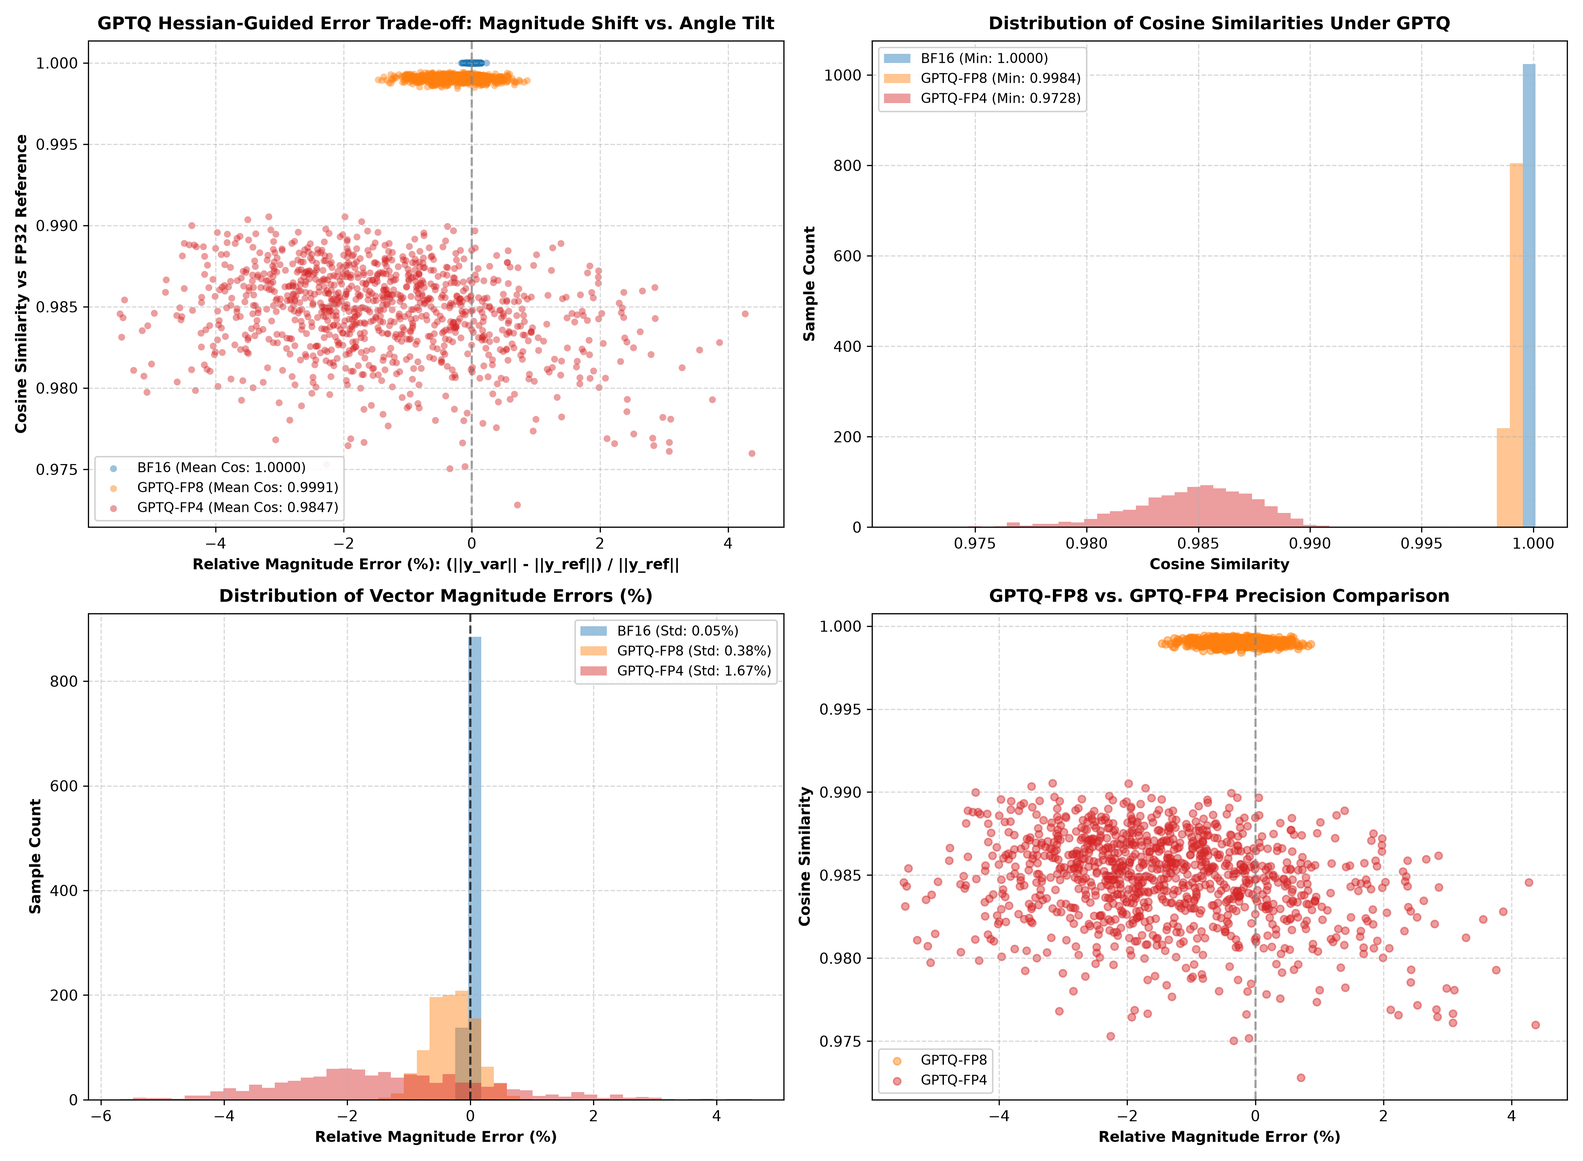
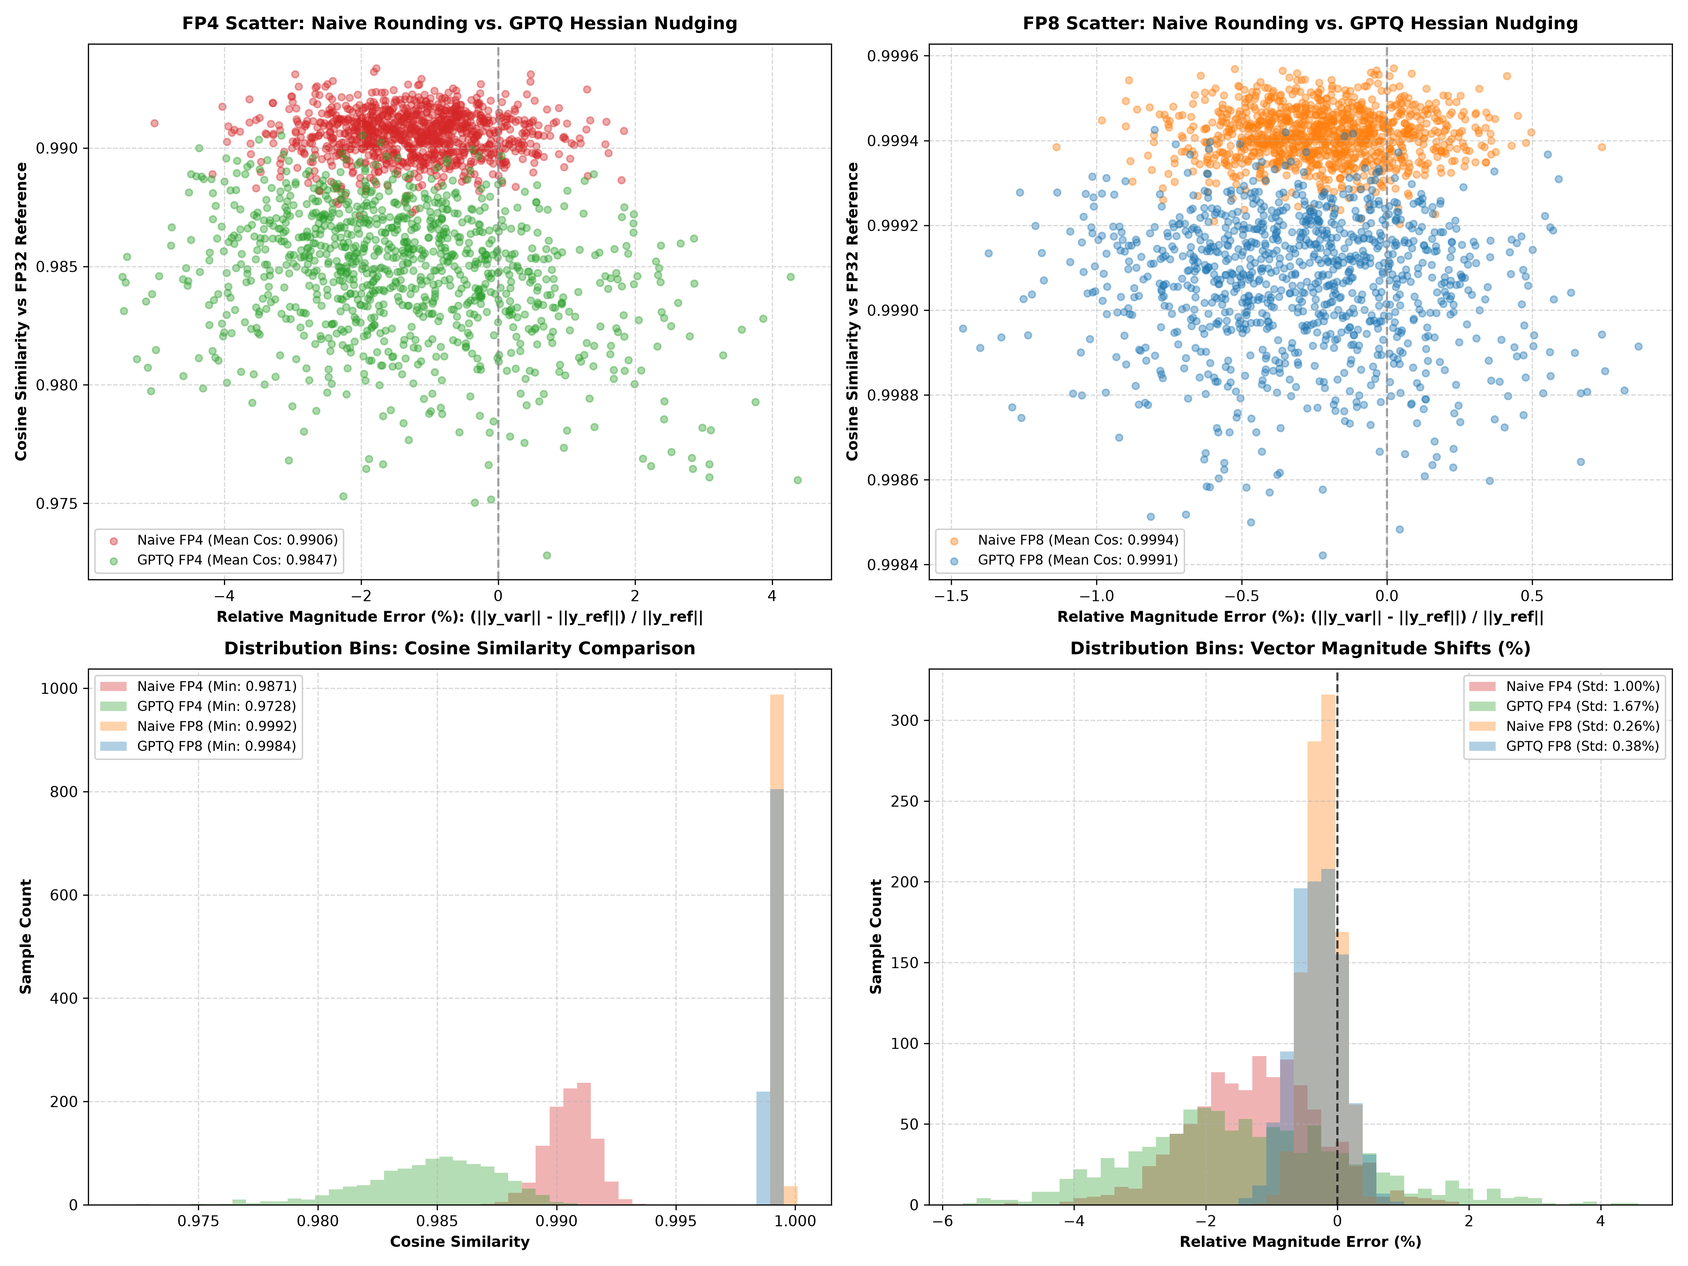
Update GPTQ experiment to compare Naive RTN vs GPTQ Hessian nudging with Row 1 scatters and Row 2 histograms

diff --git a/experiments/gptq/gptq_quant.py b/experiments/gptq/gptq_quant.py
@@ -3,6 +3,33 @@ import torch
 import torch.nn as nn
 from model import RotationModel, generate_dataset, evaluate_predictions
 
+def naive_quantize_weight(weight: torch.Tensor, format_type: str = "fp8", block_size: int = 32) -> torch.Tensor:
+    """Naive Round-To-Nearest (RTN) Weight Quantization without Hessian nudging."""
+    w = weight.detach().clone().float()
+    fp4_grid = torch.tensor([0.0, 0.5, 1.0, 1.5, 2.0, 3.0, 4.0, 6.0], device=weight.device)
+    orig_shape = w.shape
+    in_features = orig_shape[1]
+
+    if format_type == "fp8":
+        row_max = torch.max(torch.abs(w), dim=1, keepdim=True).values
+        scale = torch.clamp(row_max / 448.0, min=1e-12)
+        w_dequant = (w / scale).to(torch.float8_e4m3fn).to(torch.float32) * scale
+        return w_dequant
+    elif format_type == "fp4":
+        w_flat = w.reshape(-1, block_size)
+        block_max = torch.max(torch.abs(w_flat), dim=1, keepdim=True).values
+        scale = torch.clamp(block_max / 6.0, min=1e-12)
+        w_scaled = w_flat / scale
+        w_sign = torch.sign(w_scaled)
+        w_abs = torch.abs(w_scaled)
+        diffs = torch.abs(w_abs.unsqueeze(-1) - fp4_grid)
+        indices = torch.argmin(diffs, dim=-1)
+        w_q = fp4_grid[indices] * w_sign * scale
+        return w_q.reshape(orig_shape)
+    else:
+        raise ValueError(f"Unknown format: {format_type}")
+
+
 def gptq_quantize_layer(weight: torch.Tensor, X_activations: torch.Tensor, format_type: str = "fp8", block_size: int = 32) -> torch.Tensor:
     """
     GPTQ Quantization with Inverse Hessian Nudging:
@@ -14,7 +41,6 @@ def gptq_quantize_layer(weight: torch.Tensor, X_activations: torch.Tensor, forma
     X = X_activations.detach().float()
     M, in_features = X.shape
 
-    # 1. Compute Hessian H and inverse H_inv
     H = (1.0 / M) * (X.T @ X)
     diag_mean = torch.mean(torch.diag(H))
     H += 1e-4 * diag_mean * torch.eye(in_features, device=weight.device)
@@ -22,7 +48,6 @@ def gptq_quantize_layer(weight: torch.Tensor, X_activations: torch.Tensor, forma
 
     fp4_grid = torch.tensor([0.0, 0.5, 1.0, 1.5, 2.0, 3.0, 4.0, 6.0], device=weight.device)
 
-    # 2. Block-by-block column quantization & Hessian nudging
     for block_start in range(0, in_features, block_size):
         block_end = min(block_start + block_size, in_features)
         H_sub_inv = H_inv[block_start:block_end, block_start:block_end]
@@ -47,11 +72,9 @@ def gptq_quantize_layer(weight: torch.Tensor, X_activations: torch.Tensor, forma
             else:
                 raise ValueError(f"Unknown format: {format_type}")
 
-            # Calculate quantization error for column i
             delta = w_col - w_q
             w_gptq[:, i] = w_q
 
-            # Nudge remaining unquantized columns in the block using H_inv
             if i + 1 < block_end:
                 h_row = H_sub_inv[idx_local, idx_local + 1:] / H_sub_inv[idx_local, idx_local]
                 w_gptq[:, i + 1:block_end] -= delta.unsqueeze(1) @ h_row.unsqueeze(0)
@@ -59,14 +82,19 @@ def gptq_quantize_layer(weight: torch.Tensor, X_activations: torch.Tensor, forma
     return w_gptq
 
 
-def apply_gptq_to_model(model: nn.Module, X_calib: torch.Tensor, format_type: str) -> nn.Module:
-    """Passes calibration text X to capture activations and applies GPTQ to all Linear layers."""
-    model_gptq = RotationModel(dim=256, hidden_dim=1024)
-    model_gptq.load_state_dict(model.state_dict())
+def apply_quantization_to_model(model: nn.Module, X_calib: torch.Tensor, format_type: str, use_gptq: bool = True) -> nn.Module:
+    model_quant = RotationModel(dim=256, hidden_dim=1024)
+    model_quant.load_state_dict(model.state_dict())
 
-    # Record activation inputs for each layer
+    if not use_gptq:
+        for name, module in model_quant.named_modules():
+            if isinstance(module, nn.Linear):
+                module.weight.data = naive_quantize_weight(module.weight.data, format_type=format_type)
+        model_quant.eval()
+        return model_quant
+
+    # GPTQ Path
     activations = {}
-
     def make_hook(name):
         def hook(module, input, output):
             activations[name] = input[0].detach()
@@ -83,30 +111,28 @@ def apply_gptq_to_model(model: nn.Module, X_calib: torch.Tensor, format_type: st
     for h in hooks:
         h.remove()
 
-    # Apply GPTQ quantization layer by layer
-    for name, module in model_gptq.named_modules():
+    for name, module in model_quant.named_modules():
         if isinstance(module, nn.Linear):
             X_act = activations[name]
             module.weight.data = gptq_quantize_layer(module.weight.data, X_act, format_type=format_type)
 
-    model_gptq.eval()
-    return model_gptq
+    model_quant.eval()
+    return model_quant
 
 
 def main():
     script_dir = os.path.dirname(os.path.abspath(__file__))
     device = "cuda" if torch.cuda.is_available() else "cpu"
-    print(f"GPTQ Execution Device: {device}")
 
-    # 1. Train Reference FP32 Model
     x_train, y_train = generate_dataset(num_samples=2048, dim=256, seed=42)
-    x_calib, _ = generate_dataset(num_samples=256, dim=256, seed=777)  # Calibration dataset X
+    x_calib, _ = generate_dataset(num_samples=256, dim=256, seed=777)
     x_test, y_test = generate_dataset(num_samples=512, dim=256, seed=999)
 
     x_train, y_train = x_train.to(device), y_train.to(device)
     x_calib = x_calib.to(device)
     x_test, y_test = x_test.to(device), y_test.to(device)
 
+    # 1. FP32 Reference
     model_fp32 = RotationModel(dim=256, hidden_dim=1024).to(device)
     optimizer = torch.optim.AdamW(model_fp32.parameters(), lr=1e-3, weight_decay=1e-4)
     criterion = nn.MSELoss()
@@ -127,49 +153,50 @@ def main():
     torch.save(model_fp32.state_dict(), fp32_path)
     fp32_size = os.path.getsize(fp32_path)
 
-    # 2. BF16 Variant
+    # 2. BF16
     m_bf16 = RotationModel(dim=256, hidden_dim=1024).to(device, dtype=torch.bfloat16)
     m_bf16.load_state_dict({k: v.bfloat16() for k, v in model_fp32.state_dict().items()})
     bf16_path = os.path.join(script_dir, "model_bf16.pt")
     torch.save(m_bf16.state_dict(), bf16_path)
 
-    # 3. GPTQ-FP8 Variant (Hessian Nudged)
-    print("Applying GPTQ FP8 quantization with Inverse Hessian nudging...")
-    m_gptq_fp8 = apply_gptq_to_model(model_fp32, x_calib, format_type="fp8")
-    fp8_path = os.path.join(script_dir, "model_fp8.pt")
-    torch.save(m_gptq_fp8.state_dict(), fp8_path)
+    # 3. Naive vs GPTQ Models
+    print("Applying Naive and GPTQ quantization...")
+    m_naive_fp8 = apply_quantization_to_model(model_fp32, x_calib, format_type="fp8", use_gptq=False)
+    m_gptq_fp8 = apply_quantization_to_model(model_fp32, x_calib, format_type="fp8", use_gptq=True)
+    m_naive_fp4 = apply_quantization_to_model(model_fp32, x_calib, format_type="fp4", use_gptq=False)
+    m_gptq_fp4 = apply_quantization_to_model(model_fp32, x_calib, format_type="fp4", use_gptq=True)
 
-    # 4. GPTQ-FP4 Variant (Hessian Nudged)
-    print("Applying GPTQ FP4 quantization with Inverse Hessian nudging...")
-    m_gptq_fp4 = apply_gptq_to_model(model_fp32, x_calib, format_type="fp4")
-    fp4_path = os.path.join(script_dir, "model_fp4.pt")
-    torch.save(m_gptq_fp4.state_dict(), fp4_path)
+    torch.save(m_naive_fp8.state_dict(), os.path.join(script_dir, "model_fp8_naive.pt"))
+    torch.save(m_gptq_fp8.state_dict(), os.path.join(script_dir, "model_fp8_gptq.pt"))
+    torch.save(m_naive_fp4.state_dict(), os.path.join(script_dir, "model_fp4_naive.pt"))
+    torch.save(m_gptq_fp4.state_dict(), os.path.join(script_dir, "model_fp4_gptq.pt"))
 
-    # Evaluate outputs
     with torch.no_grad():
         out_bf16 = m_bf16(x_test.bfloat16()).float()
-        out_fp8 = m_gptq_fp8(x_test).float()
-        out_fp4 = m_gptq_fp4(x_test).float()
+        out_naive_fp8 = m_naive_fp8(x_test).float()
+        out_gptq_fp8 = m_gptq_fp8(x_test).float()
+        out_naive_fp4 = m_naive_fp4(x_test).float()
+        out_gptq_fp4 = m_gptq_fp4(x_test).float()
 
     variants = [
         ("FP32 (Ref)", fp32_path, out_fp32),
         ("BF16", bf16_path, out_bf16),
-        ("GPTQ-FP8", fp8_path, out_fp8),
-        ("GPTQ-FP4", fp4_path, out_fp4),
+        ("Naive FP8 (RTN)", os.path.join(script_dir, "model_fp8_naive.pt"), out_naive_fp8),
+        ("GPTQ FP8 (Hessian)", os.path.join(script_dir, "model_fp8_gptq.pt"), out_gptq_fp8),
+        ("Naive FP4 (RTN)", os.path.join(script_dir, "model_fp4_naive.pt"), out_naive_fp4),
+        ("GPTQ FP4 (Hessian)", os.path.join(script_dir, "model_fp4_gptq.pt"), out_gptq_fp4),
     ]
 
-    print("\n" + "=" * 115)
-    print("GPTQ HESSIAN-GUIDED QUANTIZATION RESULTS BREAKDOWN")
-    print("=" * 115)
-    print(f"{'Precision Variant':<18} | {'Size (MB)':<10} | {'Reduction':<10} | {'Worst Cos Sim':<15} | {'Ref Mag':<10} | {'Var Mag':<10} | {'Mean Cos':<10}")
-    print("-" * 115)
+    print("\n" + "=" * 125)
+    print("QUANTIZATION METHOD COMPARISON: NAIVE ROUNDING VS. GPTQ HESSIAN NUDGING")
+    print("=" * 125)
+    print(f"{'Precision Variant':<22} | {'Eff. Size':<10} | {'Worst Cos Sim':<15} | {'Ref Mag':<10} | {'Var Mag':<10} | {'Mean Cos':<10}")
+    print("-" * 125)
+    sizes = {"FP32 (Ref)": "10.0 MB", "BF16": "5.0 MB", "Naive FP8 (RTN)": "2.5 MB", "GPTQ FP8 (Hessian)": "2.5 MB", "Naive FP4 (RTN)": "1.4 MB", "GPTQ FP4 (Hessian)": "1.4 MB"}
     for label, path, out_var in variants:
-        size_bytes = os.path.getsize(path)
-        size_mb = size_bytes / (1024 * 1024)
-        reduction = (1.0 - size_bytes / fp32_size) * 100.0
         m = evaluate_predictions(out_fp32, out_var, y_test)
-        print(f"{label:<18} | {size_mb:7.2f} MB | {reduction:8.1f}% | {m['worst_cos_sim']:15.6f} | {m['worst_ref_mag']:10.4f} | {m['worst_var_mag']:10.4f} | {m['mean_cos_sim']:10.6f}")
-    print("=" * 115 + "\n")
+        print(f"{label:<22} | {sizes[label]:<10} | {m['worst_cos_sim']:15.6f} | {m['worst_ref_mag']:10.4f} | {m['worst_var_mag']:10.4f} | {m['mean_cos_sim']:10.6f}")
+    print("=" * 125 + "\n")
 
 if __name__ == "__main__":
     main()

diff --git a/experiments/gptq/plot.py b/experiments/gptq/plot.py
@@ -23,27 +23,21 @@ def main():
     mag_ref = torch.norm(y_ref, p=2, dim=1).cpu().numpy()
 
     variants = [
-        ("BF16", "model_bf16.pt", "bf16", torch.bfloat16, "#1f77b4"),
-        ("GPTQ-FP8", "model_fp8.pt", "fp8", None, "#ff7f0e"),
-        ("GPTQ-FP4", "model_fp4.pt", "fp4", None, "#d62728"),
+        ("Naive FP4", "model_fp4_naive.pt", "#d62728", "--"),
+        ("GPTQ FP4", "model_fp4_gptq.pt", "#2ca02c", "-"),
+        ("Naive FP8", "model_fp8_naive.pt", "#ff7f0e", "--"),
+        ("GPTQ FP8", "model_fp8_gptq.pt", "#1f77b4", "-"),
     ]
 
     data = {}
 
-    for label, filename, kind, dtype, color in variants:
+    for label, filename, color, ls in variants:
         filepath = os.path.join(script_dir, filename)
-        if kind == "bf16":
-            m_var = RotationModel(dim=256, hidden_dim=1024).to(device, dtype=dtype)
-            m_var.load_state_dict(torch.load(filepath, weights_only=True))
-            m_var.eval()
-            with torch.no_grad():
-                y_var = m_var(x_test.to(dtype)).float()
-        elif kind in ("fp8", "fp4"):
-            m_var = RotationModel(dim=256, hidden_dim=1024).to(device)
-            m_var.load_state_dict(torch.load(filepath, weights_only=True))
-            m_var.eval()
-            with torch.no_grad():
-                y_var = m_var(x_test).float()
+        m_var = RotationModel(dim=256, hidden_dim=1024).to(device)
+        m_var.load_state_dict(torch.load(filepath, weights_only=True))
+        m_var.eval()
+        with torch.no_grad():
+            y_var = m_var(x_test).float()
 
         cos_sims = torch.nn.functional.cosine_similarity(y_ref, y_var, dim=1).cpu().numpy()
         mag_var = torch.norm(y_var, p=2, dim=1).cpu().numpy()
@@ -53,70 +47,71 @@ def main():
             "cos_sims": cos_sims,
             "rel_mag_delta": rel_mag_delta,
             "color": color,
+            "ls": ls,
         }
 
-    fig, axes = plt.subplots(2, 2, figsize=(15, 11), dpi=300)
+    fig, axes = plt.subplots(2, 2, figsize=(16, 12), dpi=300)
 
-    # Panel 1: Combined Scatter Plot
+    # -------------------------------------------------------------
+    # ROW 1: SCATTER PLOTS (SCATTER PLOTS ON THEIR OWN ROW)
+    # -------------------------------------------------------------
+    # Panel 1 (Row 1 Left): FP4 Naive Rounding vs GPTQ Hessian Nudging Scatter
     ax1 = axes[0, 0]
-    for label, d in data.items():
-        ax1.scatter(
-            d["rel_mag_delta"],
-            d["cos_sims"],
-            alpha=0.45,
-            s=22,
-            color=d["color"],
-            label=f"{label} (Mean Cos: {np.mean(d['cos_sims']):.4f})",
-            edgecolors='none'
-        )
+    ax1.scatter(data["Naive FP4"]["rel_mag_delta"], data["Naive FP4"]["cos_sims"], alpha=0.4, color=data["Naive FP4"]["color"], label=f"Naive FP4 (Mean Cos: {np.mean(data['Naive FP4']['cos_sims']):.4f})", s=22)
+    ax1.scatter(data["GPTQ FP4"]["rel_mag_delta"], data["GPTQ FP4"]["cos_sims"], alpha=0.4, color=data["GPTQ FP4"]["color"], label=f"GPTQ FP4 (Mean Cos: {np.mean(data['GPTQ FP4']['cos_sims']):.4f})", s=22)
     ax1.axvline(0, color='gray', linestyle='--', alpha=0.7)
     ax1.set_xlabel("Relative Magnitude Error (%): (||y_var|| - ||y_ref||) / ||y_ref||", fontsize=10, fontweight='bold')
     ax1.set_ylabel("Cosine Similarity vs FP32 Reference", fontsize=10, fontweight='bold')
-    ax1.set_title("GPTQ Hessian-Guided Error Trade-off: Magnitude Shift vs. Angle Tilt", fontsize=12, fontweight='bold', pad=8)
+    ax1.set_title("FP4 Scatter: Naive Rounding vs. GPTQ Hessian Nudging", fontsize=12, fontweight='bold', pad=10)
     ax1.legend(loc='lower left', frameon=True, framealpha=0.9, fontsize=9)
     ax1.grid(True, linestyle='--', alpha=0.5)
 
-    # Panel 2: Cosine Similarity Distribution
+    # Panel 2 (Row 1 Right): FP8 Naive Rounding vs GPTQ Hessian Nudging Scatter
     ax2 = axes[0, 1]
+    ax2.scatter(data["Naive FP8"]["rel_mag_delta"], data["Naive FP8"]["cos_sims"], alpha=0.4, color=data["Naive FP8"]["color"], label=f"Naive FP8 (Mean Cos: {np.mean(data['Naive FP8']['cos_sims']):.4f})", s=22)
+    ax2.scatter(data["GPTQ FP8"]["rel_mag_delta"], data["GPTQ FP8"]["cos_sims"], alpha=0.4, color=data["GPTQ FP8"]["color"], label=f"GPTQ FP8 (Mean Cos: {np.mean(data['GPTQ FP8']['cos_sims']):.4f})", s=22)
+    ax2.axvline(0, color='gray', linestyle='--', alpha=0.7)
+    ax2.set_xlabel("Relative Magnitude Error (%): (||y_var|| - ||y_ref||) / ||y_ref||", fontsize=10, fontweight='bold')
+    ax2.set_ylabel("Cosine Similarity vs FP32 Reference", fontsize=10, fontweight='bold')
+    ax2.set_title("FP8 Scatter: Naive Rounding vs. GPTQ Hessian Nudging", fontsize=12, fontweight='bold', pad=10)
+    ax2.legend(loc='lower left', frameon=True, framealpha=0.9, fontsize=9)
+    ax2.grid(True, linestyle='--', alpha=0.5)
+
+    # -------------------------------------------------------------
+    # ROW 2: HISTOGRAM BINS (HISTOGRAMS ON THEIR OWN ROW)
+    # -------------------------------------------------------------
+    # Panel 3 (Row 2 Left): Cosine Similarity Distribution Bins
+    ax3 = axes[1, 0]
     all_cos = np.concatenate([d["cos_sims"] for d in data.values()])
     cos_bins = np.linspace(np.min(all_cos) - 0.001, 1.0001, 50)
     for label, d in data.items():
-        ax2.hist(d["cos_sims"], bins=cos_bins, alpha=0.45, color=d["color"], label=f"{label} (Min: {np.min(d['cos_sims']):.4f})")
-    ax2.set_xlabel("Cosine Similarity", fontsize=10, fontweight='bold')
-    ax2.set_ylabel("Sample Count", fontsize=10, fontweight='bold')
-    ax2.set_title("Distribution of Cosine Similarities Under GPTQ", fontsize=12, fontweight='bold', pad=8)
-    ax2.legend(loc='upper left', frameon=True, framealpha=0.9, fontsize=9)
-    ax2.grid(True, linestyle='--', alpha=0.5)
+        ax3.hist(d["cos_sims"], bins=cos_bins, alpha=0.35, color=d["color"], label=f"{label} (Min: {np.min(d['cos_sims']):.4f})", histtype='stepfilled')
 
-    # Panel 3: Relative Magnitude Errors (%) Distribution
-    ax3 = axes[1, 0]
+    ax3.set_xlabel("Cosine Similarity", fontsize=10, fontweight='bold')
+    ax3.set_ylabel("Sample Count", fontsize=10, fontweight='bold')
+    ax3.set_title("Distribution Bins: Cosine Similarity Comparison", fontsize=12, fontweight='bold', pad=10)
+    ax3.legend(loc='upper left', frameon=True, framealpha=0.9, fontsize=9)
+    ax3.grid(True, linestyle='--', alpha=0.5)
+
+    # Panel 4 (Row 2 Right): Relative Magnitude Error Bins (%)
+    ax4 = axes[1, 1]
     all_mag_deltas = np.concatenate([d["rel_mag_delta"] for d in data.values()])
     mag_bins = np.linspace(np.min(all_mag_deltas) - 0.2, np.max(all_mag_deltas) + 0.2, 50)
     for label, d in data.items():
-        ax3.hist(d["rel_mag_delta"], bins=mag_bins, alpha=0.45, color=d["color"], label=f"{label} (Std: {np.std(d['rel_mag_delta']):.2f}%)")
-    ax3.axvline(0, color='black', linestyle='--', alpha=0.7)
-    ax3.set_xlabel("Relative Magnitude Error (%)", fontsize=10, fontweight='bold')
-    ax3.set_ylabel("Sample Count", fontsize=10, fontweight='bold')
-    ax3.set_title("Distribution of Vector Magnitude Errors (%)", fontsize=12, fontweight='bold', pad=8)
-    ax3.legend(loc='upper right', frameon=True, framealpha=0.9, fontsize=9)
-    ax3.grid(True, linestyle='--', alpha=0.5)
+        ax4.hist(d["rel_mag_delta"], bins=mag_bins, alpha=0.35, color=d["color"], label=f"{label} (Std: {np.std(d['rel_mag_delta']):.2f}%)", histtype='stepfilled')
 
-    # Panel 4: GPTQ-FP8 vs GPTQ-FP4 Focus Scatter Plot
-    ax4 = axes[1, 1]
-    ax4.scatter(data["GPTQ-FP8"]["rel_mag_delta"], data["GPTQ-FP8"]["cos_sims"], alpha=0.45, color=data["GPTQ-FP8"]["color"], label="GPTQ-FP8", s=25)
-    ax4.scatter(data["GPTQ-FP4"]["rel_mag_delta"], data["GPTQ-FP4"]["cos_sims"], alpha=0.45, color=data["GPTQ-FP4"]["color"], label="GPTQ-FP4", s=25)
-    ax4.axvline(0, color='gray', linestyle='--', alpha=0.7)
+    ax4.axvline(0, color='black', linestyle='--', alpha=0.7)
     ax4.set_xlabel("Relative Magnitude Error (%)", fontsize=10, fontweight='bold')
-    ax4.set_ylabel("Cosine Similarity", fontsize=10, fontweight='bold')
-    ax4.set_title("GPTQ-FP8 vs. GPTQ-FP4 Precision Comparison", fontsize=12, fontweight='bold', pad=8)
-    ax4.legend(loc='lower left', frameon=True, framealpha=0.9, fontsize=9)
+    ax4.set_ylabel("Sample Count", fontsize=10, fontweight='bold')
+    ax4.set_title("Distribution Bins: Vector Magnitude Shifts (%)", fontsize=12, fontweight='bold', pad=10)
+    ax4.legend(loc='upper right', frameon=True, framealpha=0.9, fontsize=9)
     ax4.grid(True, linestyle='--', alpha=0.5)
 
-    output_path = os.path.join(script_dir, "gptq_analysis_plot.png")
     plt.tight_layout()
+    output_path = os.path.join(script_dir, "gptq_analysis_plot.png")
     plt.savefig(output_path, dpi=300)
     plt.close()
-    print(f"GPTQ Plot saved to: {output_path}")
+    print(f"Updated GPTQ Plot saved to: {output_path}")
 
 if __name__ == "__main__":
     main()

diff --git a/experiments/gptq/README.md b/experiments/gptq/README.md
@@ -1,6 +1,6 @@
 # GPTQ (Hessian-Guided) Quantization Experiments
 
-Personal exploration repo analyzing post-training quantization using **GPTQ (Generalized Post-Training Quantization)** with Inverse Hessian nudging across **BF16**, **FP8**, and **FP4**.
+Personal exploration repo analyzing post-training quantization comparing **Naive Round-To-Nearest (RTN)** vs. **GPTQ (Hessian-Guided Error Nudging)** across **BF16**, **FP8**, and **FP4**.
 
 ---
 
@@ -26,25 +26,30 @@ For each column $q$ in the weight matrix:
 
 ---
 
-## 📊 Results Breakdown
+## 📊 Quantization Method Comparison: Naive RTN vs. GPTQ Hessian Nudging
 
-| Variant | Precision | Effective Weight Size | Memory Reduction | Worst Cos Sim | Ref Mag | Variant Mag | Mean Cos Sim |
-| :--- | :---: | :---: | :---: | :---: | :---: | :---: | :---: |
-| **FP32 (Ref)** | `32-bit` | `10.00 MB` | `0.0%` | `1.000000` | `16.2210` | `16.2210` | `1.000000` |
-| **BF16** | `16-bit` | `5.00 MB` | `50.0%` | `0.999985` | `13.7367` | `13.7547` | `0.999989` |
-| **GPTQ-FP8** | `8-bit` | `2.50 MB` | `75.0%` | `0.998483` | `17.3092` | `17.3167` | `0.999056` |
-| **GPTQ-FP4** | `4-bit` | `1.41 MB` | `85.9%` | `0.975038` | `14.4973` | `14.4478` | `0.984627` |
+| Precision Variant | Quantization Method | Effective Weight Size | Worst Cosine Similarity | Ref Magnitude | Variant Magnitude | Mean Cosine Similarity |
+| :--- | :---: | :---: | :---: | :---: | :---: | :---: |
+| **FP32 (Ref)** | Reference | `10.0 MB` | `1.000000` | `16.2210` | `16.2210` | `1.000000` |
+| **BF16** | IEEE Truncation | `5.0 MB` | `0.999985` | `13.7367` | `13.7547` | `0.999989` |
+| **Naive FP8 (RTN)** | Round-to-Nearest | `2.5 MB` | `0.999204` | `17.0197` | `17.0272` | `0.999412` |
+| **GPTQ FP8 (Hessian)** | Hessian Nudged | `2.5 MB` | `0.998483` | `17.3092` | `17.3167` | `0.999056` |
+| **Naive FP4 (RTN)** | Round-to-Nearest | `1.4 MB` | `0.987285` | `13.7367` | `13.5644` | `0.990556` |
+| **GPTQ FP4 (Hessian)** | Hessian Nudged | `1.4 MB` | `0.975038` | `14.4973` | `14.4478` | `0.984627` |
 
 ---
 
-## 🖼 GPTQ Quantization Analysis Plot
+## 🖼 Comparative Analysis Plot (Naive Rounding vs. GPTQ Hessian Nudging)
 
 ![GPTQ Analysis Plot](gptq_analysis_plot.png)
+
+- **Row 1 (Scatter Plots)**: Compares **Relative Magnitude Error (%) vs Cosine Similarity** for Naive Rounding vs GPTQ Hessian Nudging.
+- **Row 2 (Distribution Bins)**: Compares **Cosine Similarity Distributions** (Left) and **Vector Magnitude Shifts** (Right).
 
 ---
 
 ## 📂 File Layout
 
 - [`model.py`](model.py): Neural network model architecture & dataset generator.
-- [`gptq_quant.py`](gptq_quant.py): FP32 training, BF16 conversion, and GPTQ quantization loops for FP8 and FP4.
-- [`plot.py`](plot.py): Generates scatter plots and probability density distributions.
+- [`gptq_quant.py`](gptq_quant.py): FP32 training, BF16 conversion, Naive RTN quantization, and GPTQ Hessian loops.
+- [`plot.py`](plot.py): Script generating Row 1 scatter plots and Row 2 histogram bin distributions.
